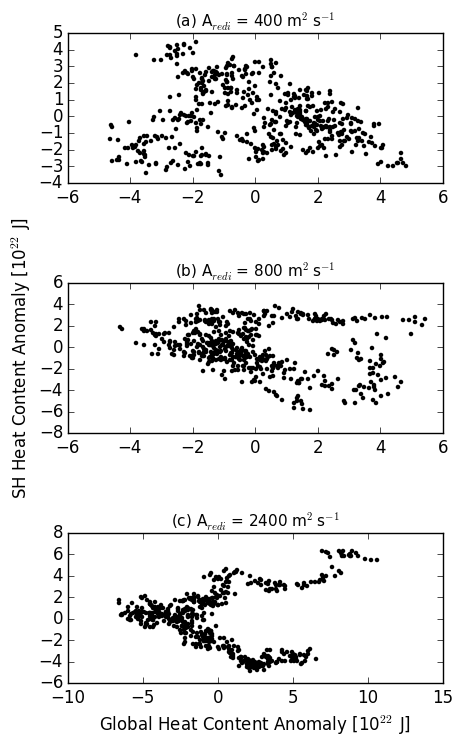
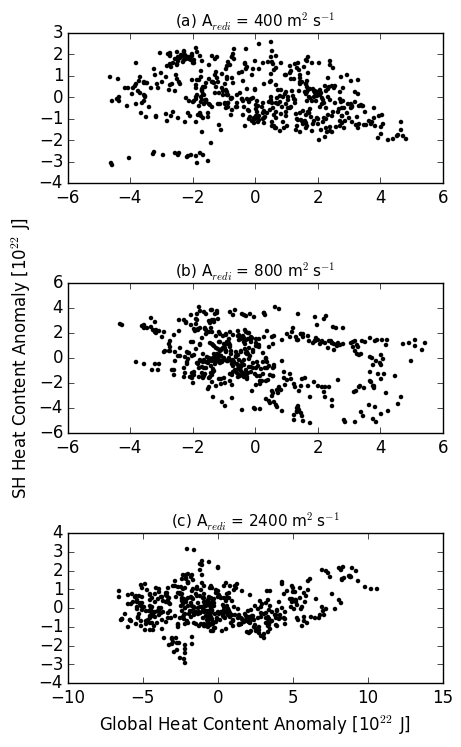
detrended SH heat in scatter plots - NEED TO DO TIMESERIES

diff --git a/python/plot_aredi_global_ohc_scatter.py b/python/plot_aredi_global_ohc_scatter.py
@@ -7,7 +7,7 @@ import iris.analysis.cartography
 import iris.coord_categorisation
 import matplotlib.pyplot as plt
 import numpy as np
-import numpy as np
+import numpy.ma as ma
 import cartopy.crs as ccrs
 import matplotlib
 from netCDF4 import Dataset
@@ -16,7 +16,7 @@ from scipy import signal
 import sys # access system routines
 sys.path.append('~/control_aredi800/python')
 from calc_OHC_OCC import calc_ohc
-
+from calc_convective_periods import convect
 
 ## Load Data ###
 '''
@@ -33,6 +33,7 @@ PATHS={'aredi_400':'~/control_aredi800/data/newCO2_control_400_ag/',
 temp = {}
 rhodzt = {}
 area = {}
+mld = {}
 
 print 'loading data for:'
 for name, PATH in PATHS.iteritems():
@@ -40,7 +41,7 @@ for name, PATH in PATHS.iteritems():
         temp[name] = iris.load_cube(PATH+'temp.nc')
         rhodzt[name] = iris.load_cube(PATH+'rho_dzt.nc')
         area[name] = iris.load_cube(PATH+'area_t.nc')
-
+	mld[name] = iris.load_cube(PATH+'mld.nc')
 
 ## Calculate OHC ###
 names = {'aredi_400', 'aredi_800', 'aredi_2400'}
@@ -53,6 +54,7 @@ global_heat_anomaly = {}
 global_heat_detrend = {}
 heat_SH = {}
 heat_SH_anomaly = {}
+heat_SH_detrend = {}
 
 for name in names:
     heat[name], heat_sumz[name], heat_global[name] = calc_ohc(temp[name], rhodzt[name], area[name])
@@ -68,21 +70,65 @@ for name in names:
     heat_SH[name] = b.collapsed(['longitude', 'latitude'], iris.analysis.SUM)
     mean_SH = heat_SH[name].collapsed('time', iris.analysis.MEAN)
     heat_SH_anomaly[name] = heat_SH[name] - mean_SH
+    heat_SH_detrend[name] = signal.detrend(heat_SH_anomaly[name].data)
+
+## Calculate convective years
+year_convect = {}
+
+for name in names:
+	year_convect[name], mld_convect, area_convect = convect(mld[name], area[name])
 
 # Figure
 fig1 = plt.figure(figsize = (5,10))
 ax1 = fig1.add_axes([0.15, 0.75, 0.75, 0.15])
-ax1.scatter((global_heat_detrend['aredi_400'])/1e22, heat_SH_anomaly['aredi_400'].data/1e22, marker ='.', color = 'k') 
+ax1.scatter((global_heat_detrend['aredi_400'])/1e22, heat_SH_detrend['aredi_400']/1e22, marker ='.', color = 'k') 
 plt.title('(a) A$_{redi}$ = 400 m$^2$s$^{-1}$', fontsize = 11) 
 
 ax2 = fig1.add_axes([0.15, 0.5, 0.75, 0.15])
-ax2.scatter((global_heat_detrend['aredi_800'])/1e22, heat_SH_anomaly['aredi_800'].data/1e22, marker ='.', color = 'k')
+ax2.scatter((global_heat_detrend['aredi_800'])/1e22, heat_SH_detrend['aredi_800']/1e22, marker ='.', color = 'k')
 ax2.set_ylabel('SH Heat Content Anomaly [10$^{22}$ J]')
 plt.title('(b) A$_{redi}$ = 800 m$^2$s$^{-1}$', fontsize = 11)
 
 ax3 = fig1.add_axes([0.15, 0.25, 0.75, 0.15])
-ax3.scatter((global_heat_detrend['aredi_2400'])/1e22, heat_SH_anomaly['aredi_2400'].data/1e22, marker ='.', color = 'k')
+ax3.scatter((global_heat_detrend['aredi_2400'])/1e22, heat_SH_detrend['aredi_2400']/1e22, marker ='.', color = 'k')
 ax3.set_xlabel('Global Heat Content Anomaly [10$^{22}$ J]')
 plt.title('(c) A$_{redi}$ = 2400 m$^2$s$^{-1}$', fontsize = 11)
 plt.savefig('notes/aredi_ohc_scatter.png', bbox_inches='tight')
+
+
+
+# Figure - highlight convective times
+a_400 = ma.masked_where(ma.getmask(year_convect['aredi_400']), global_heat_detrend['aredi_400'])
+b_400 = ma.masked_where(ma.getmask(year_convect['aredi_400']), heat_SH_detrend['aredi_400'])
+
+a_800 = ma.masked_where(ma.getmask(year_convect['aredi_800']), global_heat_detrend['aredi_800'])
+b_800 = ma.masked_where(ma.getmask(year_convect['aredi_800']), heat_SH_detrend['aredi_800'])
+
+a_2400 = ma.masked_where(ma.getmask(year_convect['aredi_2400']), global_heat_detrend['aredi_2400'])
+b_2400 = ma.masked_where(ma.getmask(year_convect['aredi_2400']), heat_SH_detrend['aredi_2400'])
+
+fig1 = plt.figure(figsize = (5,10))
+ax1 = fig1.add_axes([0.15, 0.75, 0.75, 0.15])
+ax1.scatter((global_heat_detrend['aredi_400'])/1e22, heat_SH_detrend['aredi_400']/1e22, marker ='.', color = 'k')
+ax1.scatter(a_400/1e22, b_400/1e22, marker = '.', color = '#368BC1')
+plt.title('(a) A$_{redi}$ = 400 m$^2$s$^{-1}$', fontsize = 11)
+
+ax2 = fig1.add_axes([0.15, 0.5, 0.75, 0.15])
+ax2.scatter((global_heat_detrend['aredi_800'])/1e22, heat_SH_detrend['aredi_800']/1e22, marker ='.', color = 'k')
+ax2.scatter(a_800/1e22, b_800/1e22, marker = '.', color = '#368BC1')
+ax2.set_ylabel('SH Heat Content Anomaly [10$^{22}$ J]')
+plt.title('(b) A$_{redi}$ = 800 m$^2$s$^{-1}$', fontsize = 11)
+
+ax3 = fig1.add_axes([0.15, 0.25, 0.75, 0.15])
+ax3.scatter((global_heat_detrend['aredi_2400'])/1e22, heat_SH_detrend['aredi_2400']/1e22, marker ='.', color = 'k')
+ax3.scatter(a_2400/1e22, b_2400/1e22, marker = '.', color = '#368BC1')
+ax3.set_xlabel('Global Heat Content Anomaly [10$^{22}$ J]')
+plt.title('(c) A$_{redi}$ = 2400 m$^2$s$^{-1}$', fontsize = 11)
+plt.savefig('notes/aredi_ohc_scatter_wconv.png', bbox_inches='tight')
+
+
+
+
+
 plt.show()
+

diff --git a/python/calc_convective_periods.py b/python/calc_convective_periods.py
@@ -23,20 +23,30 @@ sys.path.append('/home/jthom143/python_functions')
 from calc_region import calc_weddell_sea 
 
 
-def convect(mld, area, mld_avg):
+def convect(mld, area):
     import numpy as np
     import iris
     import numpy.ma as ma
-
+    from calc_region import calc_weddell_sea
+    
     t = len(mld.coord('time').points)
+
+    ## Isolate Weddell Sea
+    mld = calc_weddell_sea(mld)
+    area = calc_weddell_sea(area)
+
+    mld.coord('latitude').guess_bounds()
+    mld.coord('longitude').guess_bounds()
+    grid_areas = iris.analysis.cartography.area_weights(mld)
+    mld_avg = mld.collapsed(['latitude', 'longitude'], iris.analysis.MEAN, weights=grid_areas)
 
     # Create area array with time component
     A = area.data
     area_ts = np.tile(A[np.newaxis, :,:], (t,1,1))
 
-    # Extract when MLD is greater than 1000m
-    mld_600 = ma.masked_where(mld.data< 1000, mld.data)
-    area_600 = ma.masked_where(mld.data< 1000, area_ts)
+    # Extract when MLD is greater than 600m
+    mld_600 = ma.masked_where(mld.data< 600, mld.data)
+    area_600 = ma.masked_where(mld.data< 600, area_ts)
 
     # Convert to Cube
     mld_600 = iris.cube.Cube(mld_600, long_name = 'Convective mld', units = 'm', dim_coords_and_dims = [(mld.coord('time'), 0), (mld.coord('latitude'), 1), (mld.coord('longitude'), 2)])
@@ -53,45 +63,44 @@ def convect(mld, area, mld_avg):
     return year_convect, mld_convect, area_convect
                                                                             
 
+if __name__=='__main__':
+
+    # Load Data
+    PATH = '~/control_aredi800/data/newCO2_control_2400_ag/'
+
+    mld = iris.load_cube(PATH+'mld.nc')
+    area = iris.load_cube(PATH+'area_t.nc')
+
+    # Calculate convection metrics
+    year_convect, mld_convect, area_convect = convect(mld, area)
+
+    percent_yrs_convect = (ma.count(year_convect))/float(len(year_convect))*100
+
+    avg_area_convect = ma.mean(area_convect)/1e5
+
+    ## Isolate Weddell Sea
+    mld = calc_weddell_sea(mld)
+    mld.coord('latitude').guess_bounds()
+    mld.coord('longitude').guess_bounds()
+    grid_areas = iris.analysis.cartography.area_weights(mld)
+    total_mld_ws = mld.collapsed(['latitude', 'longitude'], iris.analysis.MEAN, weights=grid_areas)
 
 
-# Load Data
-PATH = '~/control_aredi800/data/'
+    fig = plt.figure()
+    plt.plot(total_mld_ws.data, color = 'k', lw = 1.5)
+    plt.plot( mld_convect, color = '#368BC1', lw = 1.5)
+    plt.xlabel('Time (years)')
+    plt.ylabel('meters')
+    plt.title('(a) Mixed Layer Depth Timeseries', fontsize = 11)
+    plt.ylim([0,800])
+    plt.gca().invert_yaxis()
 
-mld = iris.load_cube(PATH+'mld.nc')
-area = iris.load_cube(PATH+'area_t.nc')
-
-## Isolate Weddell Sea
-mld_ws = calc_weddell_sea(mld)
-area_ws = calc_weddell_sea(area)
-
-mld_ws.coord('latitude').guess_bounds()
-mld_ws.coord('longitude').guess_bounds()
-grid_areas = iris.analysis.cartography.area_weights(mld_ws)
-total_mld_ws = mld_ws.collapsed(['latitude', 'longitude'], iris.analysis.MEAN, weights = grid_areas)
-
-# Calculate convection metrics
-year_convect, mld_convect, area_convect = convect(mld_ws, area_ws, total_mld_ws)
-
-percent_yrs_convect = (ma.count(year_convect))/float(len(year_convect))*100
-
-avg_area_convect = ma.mean(area_convect)/1e5
-
-fig = plt.figure()
-plt.plot(total_mld_ws.data, color = 'k', lw = 1.5)
-plt.plot( mld_convect, color = '#368BC1', lw = 1.5)
-plt.xlabel('Time (years)')
-plt.ylabel('meters')
-plt.title('(a) Mixed Layer Depth Timeseries', fontsize = 11)
-plt.ylim([0,800])
-plt.gca().invert_yaxis()
-
-fig = plt.figure()
-ax1 = plt.subplot(1,1,1)
-t=np.arange(0,500,1)
-plt.plot(t, total_mld_ws.data, color = 'k', lw = 1.5)
-collection = collections.BrokenBarHCollection.span_where(
-        t, ymin=0, ymax=900, where=total_mld_ws.data > 400, facecolor='green', alpha=0.5)
-ax1.add_collection(collection)
-plt.gca().invert_yaxis()
-plt.show()
+    fig = plt.figure()
+    ax1 = plt.subplot(1,1,1)
+    t=np.arange(0,len(total_mld_ws.data),1)
+    plt.plot(t, total_mld_ws.data, color = 'k', lw = 1.5)
+    collection = collections.BrokenBarHCollection.span_where(
+            t, ymin=0, ymax=900, where=total_mld_ws.data > 400, facecolor='green', alpha=0.5)
+    ax1.add_collection(collection)
+    plt.gca().invert_yaxis()
+    plt.show()

diff --git a/python/plot_aredi_global_occ_scatter.py b/python/plot_aredi_global_occ_scatter.py
@@ -7,7 +7,7 @@ import iris.analysis.cartography
 import iris.coord_categorisation
 import matplotlib.pyplot as plt
 import numpy as np
-import numpy as np
+import numpy.ma as ma
 import cartopy.crs as ccrs
 import matplotlib
 from netCDF4 import Dataset
@@ -16,7 +16,7 @@ from scipy import signal
 import sys # access system routines
 sys.path.append('~/control_aredi800/python')
 from calc_OHC_OCC import calc_occ
-
+from calc_convective_periods import convect
 
 ## Load Data ###
 '''
@@ -33,6 +33,7 @@ PATHS={'aredi_400':'~/control_aredi800/data/newCO2_control_400_ag/',
 dic = {}
 rhodzt = {}
 area = {}
+mld = {}
 
 print 'loading data for:'
 for name, PATH in PATHS.iteritems():
@@ -40,6 +41,7 @@ for name, PATH in PATHS.iteritems():
         dic[name] = iris.load_cube(PATH+'dic.nc')
         rhodzt[name] = iris.load_cube(PATH+'rho_dzt.nc')
         area[name] = iris.load_cube(PATH+'area_t.nc')
+	mld[name] = iris.load_cube(PATH+'mld.nc')
 
 	if name == 'aredi_800':
 	    dic[name] = dic[name][-500:]
@@ -73,7 +75,11 @@ for name in names:
 	carbon_SH_anomaly[name] = carbon_SH[name] - mean_SH
 	carbon_SH_detrend[name] = signal.detrend(carbon_SH_anomaly[name].data)
 
-							
+## Calculate convective years ##
+year_convect = {}
+
+for name in names:
+	year_convect[name], mld_convect, area_convect = convect(mld[name], area[name])
 
 # Figure
 fig1 = plt.figure(figsize = (5,10))
@@ -91,4 +97,39 @@ ax3.scatter((global_carbon_detrend['aredi_2400'])/1e15, carbon_SH_detrend['aredi
 ax3.set_xlabel('Global Carbon Content Anomaly [Pg C]')
 plt.title('(c) A$_{redi}$ = 2400 m$^2$s$^{-1}$', fontsize = 11)
 plt.savefig('notes/aredi_occ_scatter.png', bbox_inches='tight')
+
+
+# Figure - highlight convective times
+a_400 = ma.masked_where(ma.getmask(year_convect['aredi_400']), global_carbon_detrend['aredi_400'])
+b_400 = ma.masked_where(ma.getmask(year_convect['aredi_400']), carbon_SH_detrend['aredi_400'])
+
+a_800 = ma.masked_where(ma.getmask(year_convect['aredi_800']), global_carbon_detrend['aredi_800'])
+b_800 = ma.masked_where(ma.getmask(year_convect['aredi_800']), carbon_SH_detrend['aredi_800'])
+
+a_2400 = ma.masked_where(ma.getmask(year_convect['aredi_2400']), global_carbon_detrend['aredi_2400'])
+b_2400 = ma.masked_where(ma.getmask(year_convect['aredi_2400']), carbon_SH_detrend['aredi_2400'])
+
+fig1 = plt.figure(figsize = (5,10))
+ax1 = fig1.add_axes([0.15, 0.75, 0.75, 0.15])
+ax1.scatter((global_carbon_detrend['aredi_400'])/1e15, carbon_SH_detrend['aredi_400']/1e15, marker ='.', color = 'k') 
+ax1.scatter(a_400/1e15, b_400/1e15, marker = '.', color = '#368BC1')
+plt.title('(a) A$_{redi}$ = 400 m$^2$s$^{-1}$', fontsize = 11) 
+
+ax2 = fig1.add_axes([0.15, 0.5, 0.75, 0.15])
+ax2.scatter((global_carbon_detrend['aredi_800'])/1e15, carbon_SH_detrend['aredi_800']/1e15, marker ='.', color = 'k')
+ax2.scatter(a_800/1e15, b_800/1e15, marker = '.', color = '#368BC1')
+ax2.set_ylabel('SH Carbon Content Anomaly [Pg C]')
+plt.title('(b) A$_{redi}$ = 800 m$^2$s$^{-1}$', fontsize = 11)
+
+ax3 = fig1.add_axes([0.15, 0.25, 0.75, 0.15])
+ax3.scatter((global_carbon_detrend['aredi_2400'])/1e15, carbon_SH_detrend['aredi_2400']/1e15, marker ='.', color = 'k')
+ax3.scatter(a_2400/1e15, b_2400/1e15, marker = '.', color = '#368BC1')
+ax3.set_xlabel('Global Carbon Content Anomaly [Pg C]')
+plt.title('(c) A$_{redi}$ = 2400 m$^2$s$^{-1}$', fontsize = 11)
+plt.savefig('notes/aredi_occ_scatter_wconv.png', bbox_inches='tight')
+
+
+
+
+
 plt.show()
